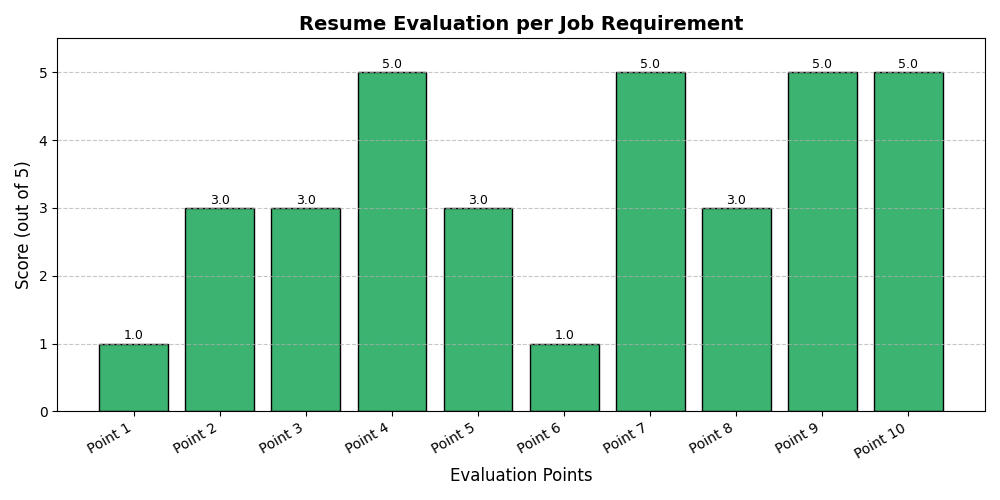
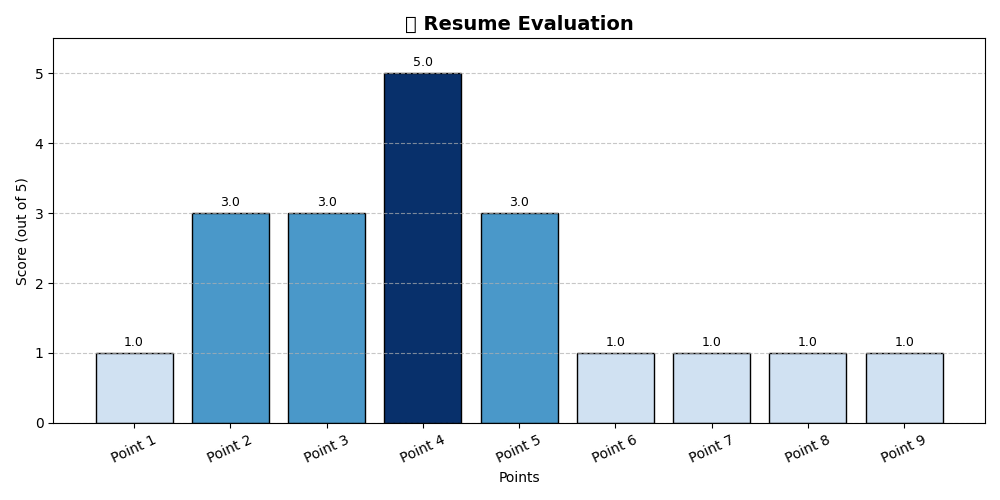
UI updated

diff --git a/main.py b/main.py
@@ -17,7 +17,13 @@ api_key = os.getenv("GROQ_API_KEY")
 email_user = os.getenv("EMAIL_USER")
 email_pass = os.getenv("EMAIL_PASS")
 
-st.title("AI Resume Analyzer")
+st.set_page_config(page_title="AI Resume Analyzer", layout="wide")
+
+st.markdown(
+    "<h1 style='text-align: center; color: teal;'>📄 AI Resume Analyzer</h1>",
+    unsafe_allow_html=True
+)
+
 client = Groq(api_key=api_key)
 model = SentenceTransformer('sentence-transformers/all-mpnet-base-v2')
 
@@ -73,14 +79,11 @@ def send_email_report(to_email, report, filename):
     msg['From'] = email_user
     msg['To'] = to_email
     msg['Subject'] = 'Your AI Resume Analysis Report'
-
     body = "Please find attached your resume analysis report."
     msg.attach(MIMEText(body, 'plain'))
-
     attachment = MIMEApplication(report.encode('utf-8'))
     attachment['Content-Disposition'] = f'attachment; filename="{filename}"'
     msg.attach(attachment)
-
     with smtplib.SMTP_SSL('smtp.gmail.com', 465) as server:
         server.login(email_user, email_pass)
         server.send_message(msg)
@@ -91,11 +94,11 @@ def plot_scores(scores, labels=None, filename="score_chart.png"):
     chart_path = os.path.join(chart_dir, filename)
 
     fig, ax = plt.subplots(figsize=(10, 5))
-
     if not labels:
         labels = [f"Point {i+1}" for i in range(len(scores))]
 
-    bars = ax.bar(labels, scores, color='mediumseagreen', edgecolor='black')
+    colors = plt.cm.YlGn([score / 5 for score in scores])
+    bars = ax.bar(labels, scores, color=colors, edgecolor='black')
 
     for bar in bars:
         height = bar.get_height()
@@ -103,22 +106,25 @@ def plot_scores(scores, labels=None, filename="score_chart.png"):
                     xytext=(0, 3), textcoords="offset points", ha='center', fontsize=9, color='black')
 
     ax.set_ylim(0, 5.5)
-    ax.set_title("Resume Evaluation per Job Requirement", fontsize=14, fontweight='bold')
+    ax.set_title("📊 Resume Evaluation per Job Requirement", fontsize=14, fontweight='bold')
     ax.set_ylabel("Score (out of 5)", fontsize=12)
     ax.set_xlabel("Evaluation Points", fontsize=12)
     ax.grid(True, axis='y', linestyle='--', alpha=0.7)
     plt.xticks(rotation=30, ha='right')
     fig.tight_layout()
-
     fig.savefig(chart_path)
     plt.close(fig)
     return chart_path
 
-job_desc = st.text_area("Enter Job Description")
-email = st.text_input("Enter your email to receive the report")
-resumes = st.file_uploader("Upload Resume PDFs", type="pdf", accept_multiple_files=True)
+st.markdown("---")
+col1, col2 = st.columns([3, 1])
+with col1:
+    job_desc = st.text_area("📝 Enter Job Description", height=250)
+with col2:
+    email = st.text_input("📧 Enter your email to receive the report")
+resumes = st.file_uploader("📤 Upload Resume PDFs", type="pdf", accept_multiple_files=True)
 
-if st.button("Analyze"):
+if st.button("🔍 Analyze"):
     if job_desc and resumes:
         for resume_file in resumes:
             resume_text = extract_pdf_text(resume_file)
@@ -129,18 +135,19 @@ if st.button("Analyze"):
             missing_keywords = find_missing_keywords(resume_text, job_desc)
             chart_path = plot_scores(scores, filename=f"{resume_file.name}_chart.png")
 
-            st.subheader(f"Report for: {resume_file.name}")
-            st.write(f"**Similarity Score:** {similarity:.2f}")
-            st.write(f"**Average Evaluation Score:** {avg_score:.2f}")
-            st.image(chart_path, caption="Score Chart")
+            st.markdown("---")
+            st.subheader(f"📁 Report for: `{resume_file.name}`")
+            st.metric("Similarity Score", f"{similarity:.2f}")
+            st.metric("Average Evaluation Score", f"{avg_score:.2f}")
+            st.image(chart_path, caption="🖼 Evaluation Chart", use_container_width=True)
 
-            st.markdown("### AI Feedback Report")
+            st.markdown("### 🧠 AI Feedback Report")
             st.markdown(report, unsafe_allow_html=True)
 
-            st.download_button("Download Report", report, file_name=f"{resume_file.name}_report.txt")
+            st.download_button("📥 Download Report", report, file_name=f"{resume_file.name}_report.txt")
 
             if email:
                 send_email_report(email, report, f"{resume_file.name}_report.txt")
-                st.success(f"Report emailed to {email}")
+                st.success(f"📧 Report emailed to **{email}**")
     else:
-        st.warning("Please enter a job description and upload at least one resume.")
+        st.warning("⚠ Please enter a job description and upload at least one resume.")
